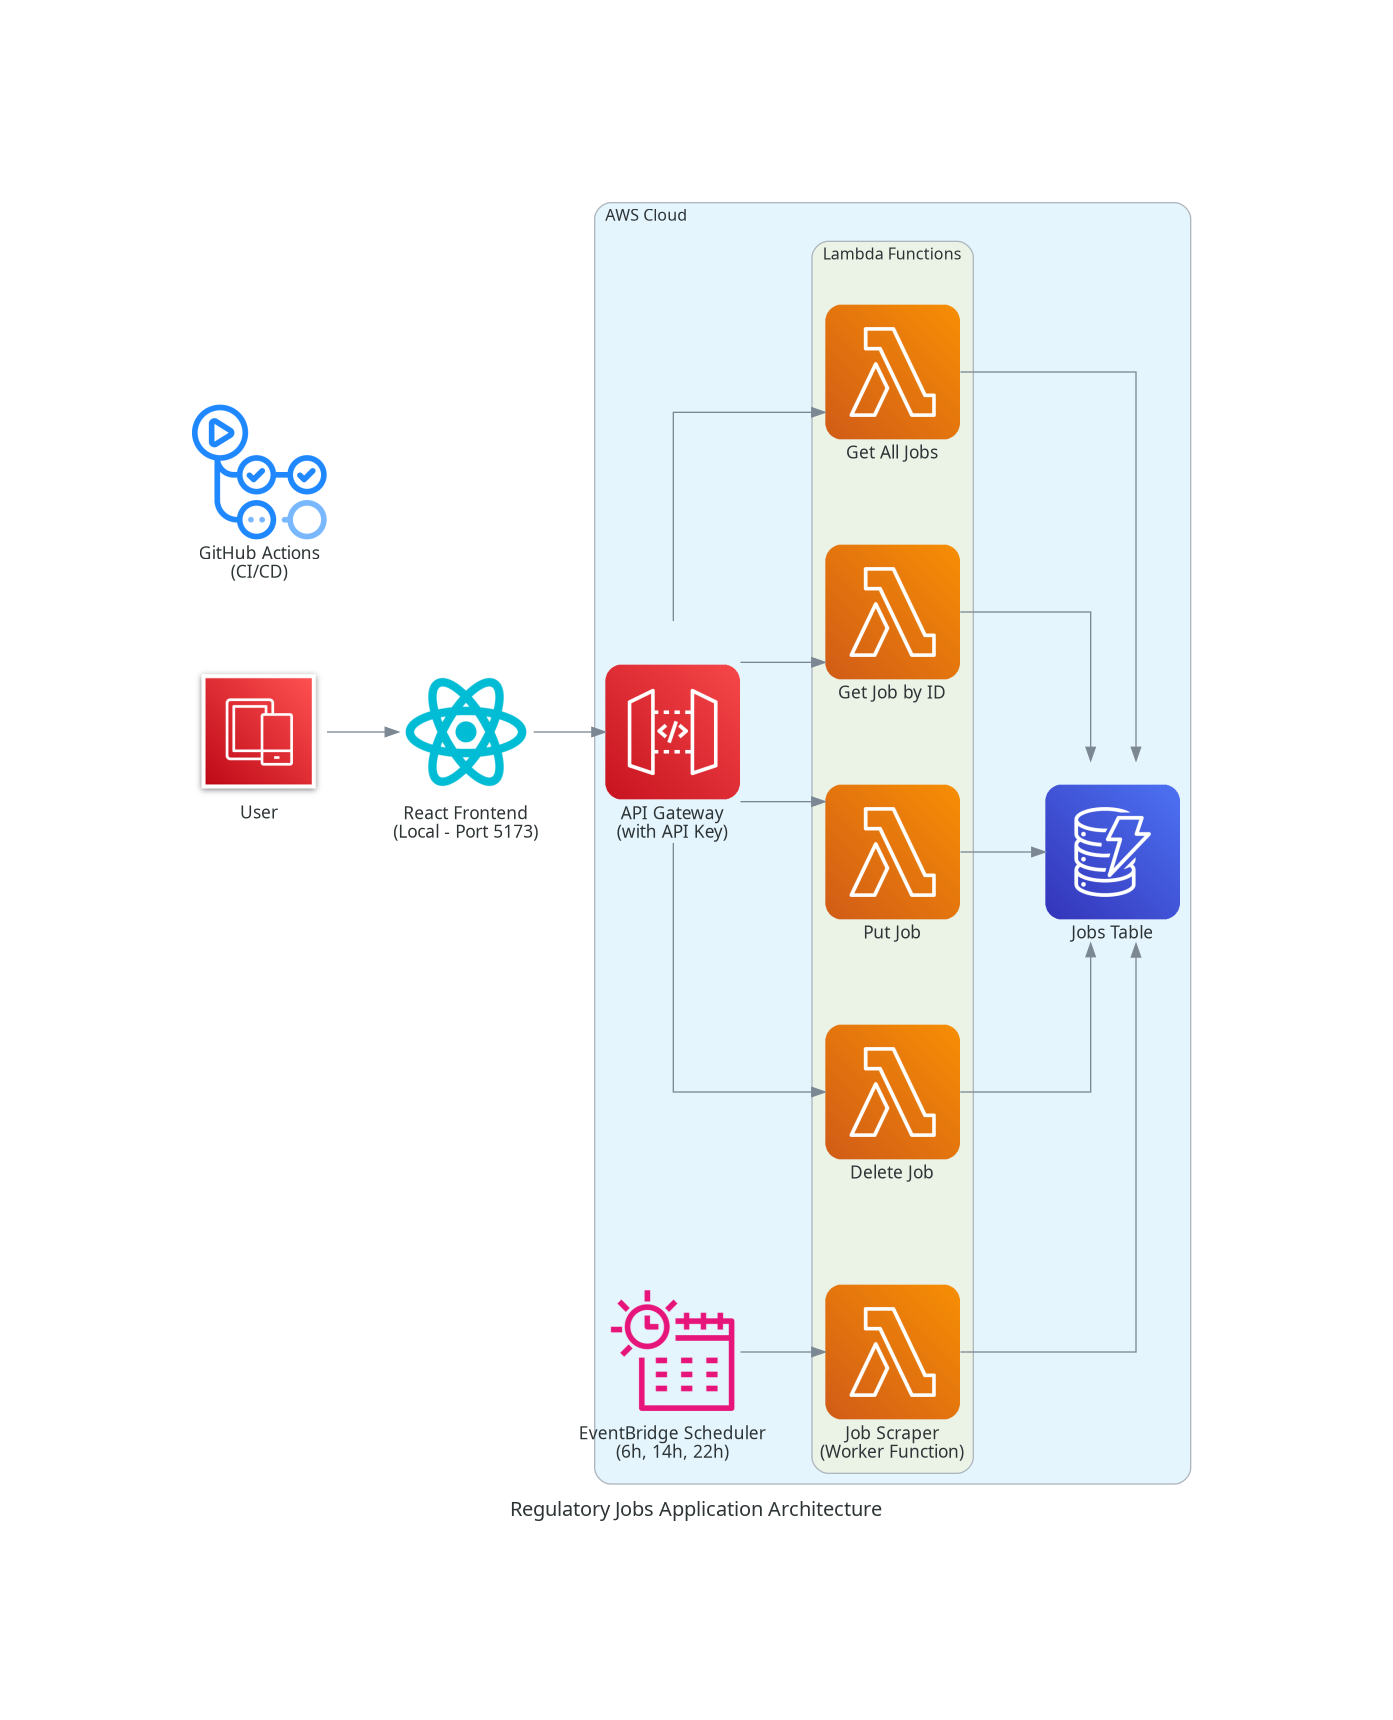
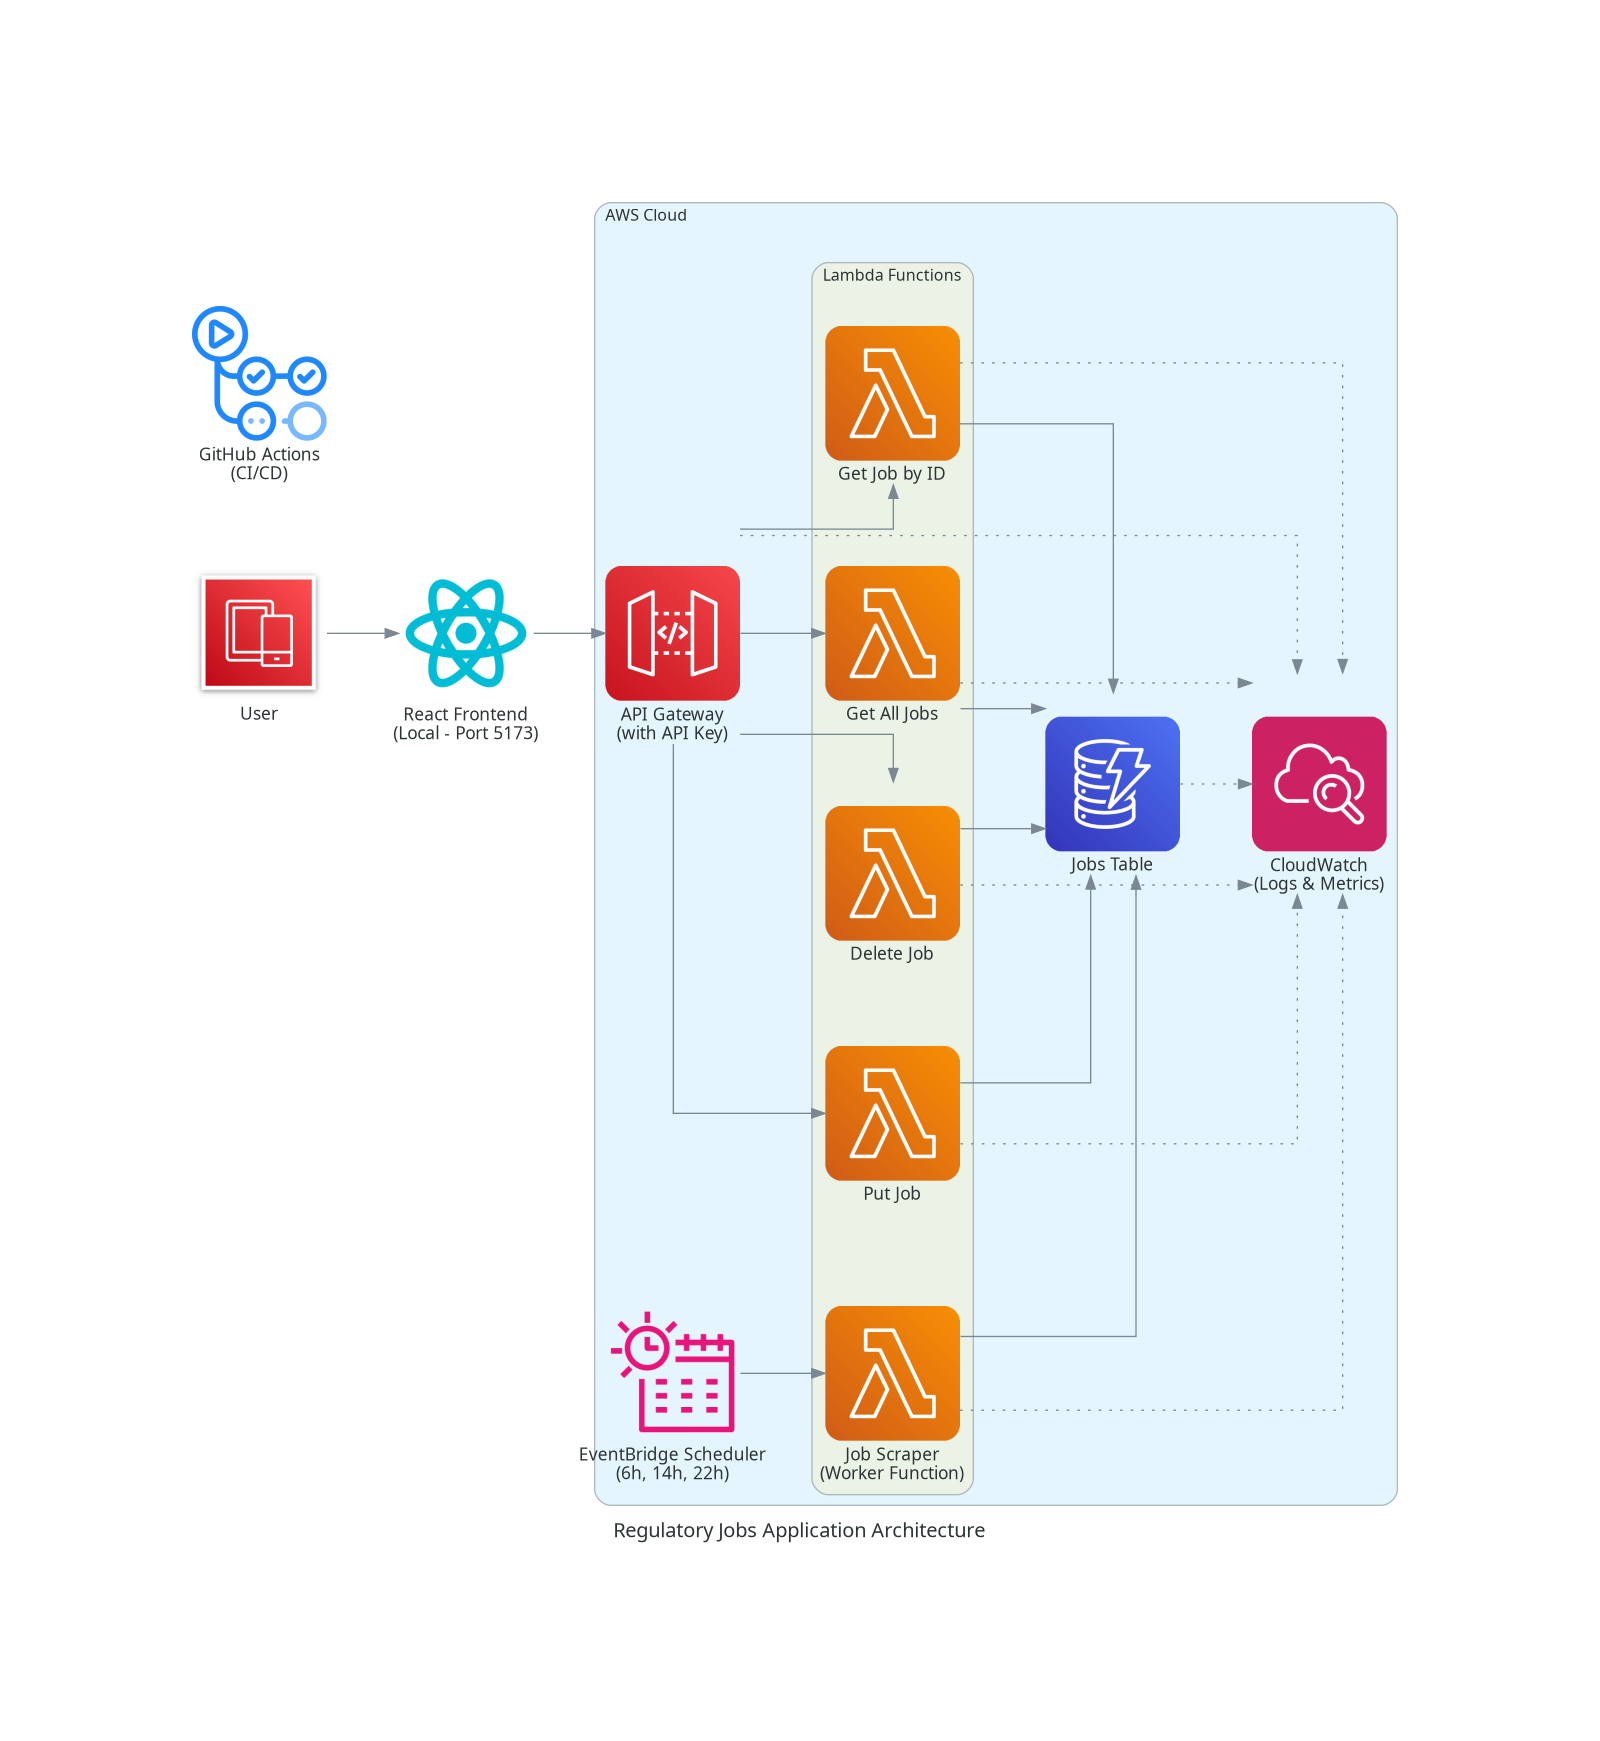
:sparkles: Update Doc with Python runtime for backend and add monitoring tools

Changed region(s): [[0.1235, 0.0924, 0.8952, 0.8936]]

diff --git a/.kiro/steering/structure.md b/.kiro/steering/structure.md
@@ -3,7 +3,7 @@
 ## Root Level
 ```
 ├── assets/            # Architecture diagrams and images
-├── backend/           # AWS SAM serverless backend (Node.js)
+├── backend/           # AWS SAM serverless backend (Python)
 ├── frontend/          # React SPA (TypeScript)
 ├── .kiro/             # Kiro configuration and specs
 └── README.md          # Project documentation
@@ -14,14 +14,17 @@
 backend/
 ├── src/
 │   └── handlers/      # Lambda function handlers
-│       ├── get-all-jobs.mjs    # Get all jobs API
-│       ├── get-by-id.mjs       # Get job by ID API
-│       ├── put-job.mjs         # Create/update job API
-│       └── delete-by-id.mjs    # Delete job API
+│       ├── get_all_jobs.py     # Get all jobs API
+│       ├── get_by_id.py        # Get job by ID API
+│       ├── put_job.py          # Create/update job API
+│       └── delete_by_id.py     # Delete job API
+├── tests/
+│   └── unit/
+│       └── handlers/  # Pytest unit tests
 ├── events/            # Test event files for local testing
-├── __tests__/         # Jest unit tests
 ├── template.yaml      # AWS SAM infrastructure template
-├── package.json       # Node.js dependencies
+├── pyproject.toml     # Python project configuration
+├── requirements.txt   # Python dependencies
 ├── samconfig.toml     # SAM deployment configuration
 └── README.md          # Backend documentation
 ```
@@ -60,8 +63,9 @@ backend/template.yaml  # AWS SAM infrastructure as code
 
 ### Lambda Functions
 - Each Lambda has its own handler in `src/handlers/`
-- ES6 modules with `.mjs` extension
+- Python modules with `.py` extension
 - Environment variables for resource names (e.g., `DYNAMODB_TABLE`)
+- Pydantic models for request/response validation
 
 ### API Structure
 - `GET /` - Get all jobs (requires API key)
@@ -75,9 +79,9 @@ backend/template.yaml  # AWS SAM infrastructure as code
 - No GSI indexes in current implementation
 
 ### File Naming
-- **JavaScript**: camelCase for functions, kebab-case for files
+- **Python**: snake_case for functions and files, PascalCase for classes
 - **TypeScript**: PascalCase for components, camelCase for utilities
-- **Tests**: Jest test files in `__tests__/` directory
+- **Tests**: pytest test files in `tests/unit/` directory with `test_` prefix
 
 ### Deployment
 - **Backend**: Deployed to AWS using SAM CLI via GitHub Actions
@@ -89,36 +93,36 @@ backend/template.yaml  # AWS SAM infrastructure as code
 ┌─────────────────┐    ┌──────────────────────────────────────────────────┐
 │                 │    │                 AWS Cloud                        │
 │  React Frontend │    │                                                  │
-│  (Port 5173)    │────┤  ┌─────────────────┐   ┌─────────────────────┐  │
-│  Local Dev      │    │  │   API Gateway   │   │    EventBridge      │  │
-│                 │    │  │  (API Key Auth) │   │   (Scheduler)       │  │
-└─────────────────┘    │  └─────────────────┘   │  6h, 14h, 22h       │  │
-                       │           │             └─────────────────────┘  │
+│  (Port 5173)    │────┤  ┌─────────────────┐   ┌─────────────────────┐   │
+│  Local Dev      │    │  │   API Gateway   │   │    EventBridge      │   │
+│                 │    │  │  (API Key Auth) │   │   (Scheduler)       │   │
+└─────────────────┘    │  └─────────────────┘   │  6h, 14h, 22h       │   │
+                       │           │            └─────────────────────┘   │
                        │           │                        │             │
-                       │  ┌─────────────────┐              │             │
-                       │  │ Lambda Functions│              │             │
-                       │  │                 │              │             │
-                       │  │ ┌─────────────┐ │              │             │
-                       │  │ │ GET /       │ │              │             │
-                       │  │ │ GET /{id}   │ │              │             │
-                       │  │ │ PUT /       │ │              │             │
-                       │  │ │ DELETE /{id}│ │              │             │
-                       │  │ └─────────────┘ │              │             │
-                       │  │                 │              │             │
-                       │  │ ┌─────────────┐ │              │             │
-                       │  │ │   Worker    │◄─────────────────┘             │
+                       │  ┌─────────────────┐               │             │
+                       │  │ Lambda Functions│               │             │
+                       │  │                 │               │             │
+                       │  │ ┌─────────────┐ │               │             │
+                       │  │ │ GET /       │ │               │             │
+                       │  │ │ GET /{id}   │ │               │             │
+                       │  │ │ PUT /       │ │               │             │
+                       │  │ │ DELETE /{id}│ │               │             │
+                       │  │ └─────────────┘ │               │             │
+                       │  │                 │               │             │
+                       │  │ ┌─────────────┐ │               │             │
+                       │  │ │   Worker    │◄────────────────┘             │
                        │  │ │ (Job Scraper│ │                             │
                        │  │ │  Function)  │ │                             │
                        │  │ └─────────────┘ │                             │
                        │  └─────────────────┘                             │
-                       │           │                                       │
-                       │           │                                       │
-                       │  ┌─────────────────┐                             │
-                       │  │   DynamoDB      │                             │
-                       │  │  (Jobs Table)   │                             │
-                       │  └─────────────────┘                             │
+                       │           │                                      │
+                       │           │                                      │
+                       │  ┌─────────────────┐   ┌─────────────────────┐   │
+                       │  │   DynamoDB      │   │    CloudWatch       │   │
+                       │  │  (Jobs Table)   │   │  (Logs & Metrics)   │   │
+                       │  └─────────────────┘   └─────────────────────┘   │
                        │                                                  │
-└──────────────────────────────────────────────────────────────────────────┘
+                       └──────────────────────────────────────────────────┘
 
 ┌─────────────────┐
 │  GitHub Actions │

diff --git a/.kiro/steering/tech.md b/.kiro/steering/tech.md
@@ -8,12 +8,13 @@
 - **Deployment**: GitHub Actions with SAM CLI
 
 ## Backend
-- **Runtime**: Node.js 24.x
-- **Framework**: AWS Lambda functions with AWS SDK
+- **Runtime**: Python 3.12
+- **Framework**: AWS Lambda functions with boto3 SDK
 - **Infrastructure**: AWS SAM template (template.yaml)
 - **API**: API Gateway with API key authentication
 - **Database**: DynamoDB SimpleTable with CRUD operations
-- **Testing**: Jest framework for unit tests
+- **Testing**: pytest framework for unit tests
+- **Validation**: Pydantic for request/response validation
 
 ## Frontend
 - **Framework**: React 19 with TypeScript
@@ -27,7 +28,8 @@
 ### Backend Development
 ```bash
 cd backend
-npm install                     # Install dependencies
+uv sync                         # Install dependencies (recommended)
+# or pip install -r requirements.txt
 sam validate                    # Validate SAM template
 sam build                       # Build Lambda functions
 sam local start-api            # Start API locally (port 3000)
@@ -55,10 +57,13 @@ sam local start-api --docker-network host
 ### Testing
 ```bash
 cd backend
-npm test                       # Run Jest tests
+pytest                         # Run pytest tests
+pytest -v                      # Run with verbose output
+pytest --cov=src              # Run with coverage
 ```
 
 ## Code Style
+- **Python**: Black formatter, flake8 linter, mypy type checking
 - **JavaScript/TypeScript**: ESLint configuration with standard rules
 - **SAM Templates**: YAML formatting with proper indentation
-- **Testing**: Jest test framework with descriptive test names
+- **Testing**: pytest framework with descriptive test names

diff --git a/README.md b/README.md
@@ -54,6 +54,12 @@ npm run dev  # Starts dev server on port 5173
 3. **Integration**: Frontend connects to deployed backend API using API keys
 4. **Deployment**: Backend deploys to AWS via GitHub Actions, frontend deployment TBD
 
+## Monitoring
+
+- **CloudWatch Logs**: Lambda function execution logs and error tracking
+- **CloudWatch Metrics**: API Gateway request metrics and DynamoDB performance
+- **Automated Alerts**: Monitor job scraping failures and API response times
+
 ## Key Features
 
 - **REST API**: CRUD operations for job management with API key authentication
